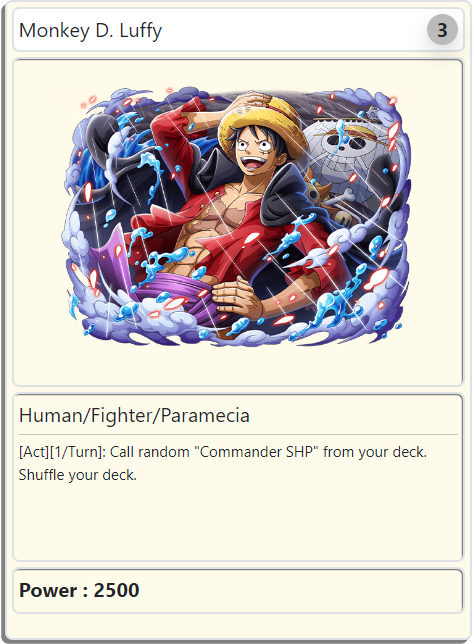
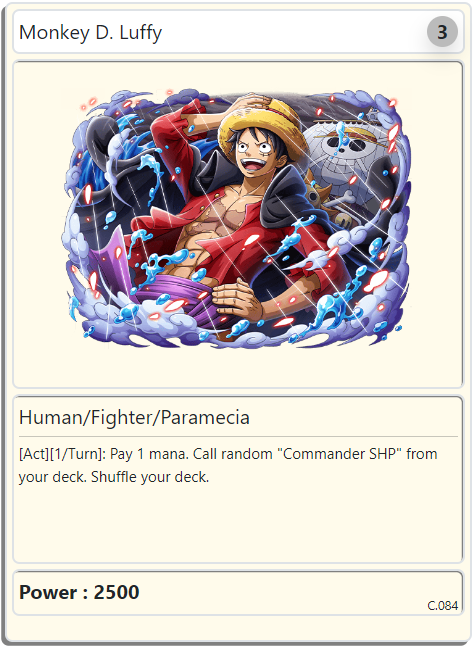
C084

Changed region(s): [[0.1184, 0.1242, 0.8879, 0.559], [0.0, 0.0, 1.0, 1.0], [0.1184, 0.9006, 0.296, 0.9317]]

diff --git a/src/views/arena/new-arena/index.vue b/src/views/arena/new-arena/index.vue
@@ -716,7 +716,10 @@ export default {
         data.unit.card.code === '071' ||
         data.unit.card.code === '072' ||
         data.unit.card.code === '073' ||
-        data.unit.card.code === '080'
+        data.unit.card.code === '080' ||
+        data.unit.card.code === '081' ||
+        data.unit.card.code === '083' ||
+        data.unit.card.code === '084'
       ) {
         data.option.act = 'ACT'
       }
@@ -1551,6 +1554,30 @@ export default {
         }
       }
     },
+    SEARCH_DECK_FOR_TEXT_AND_GRADE (data) {
+      if (data.who === 'player') {
+        data.deck = this.data.player.deck
+      } else {
+        data.deck = this.data.opponent.deck
+      }
+      const cards = []
+      for (let i = 0; i < data.deck.length; i++) {
+        if (data.deck[i].text.search(data.text) >= 0 && data.deck[i].grade <= data.grade) {
+          cards.push(i)
+        }
+      }
+      if (cards.length > 0) {
+        const index = Math.floor(Math.random() * cards.length)
+        if (data.todo === 'CALL FROM DECK') {
+          data.card = data.deck[cards[index]]
+          data.index = cards[index]
+          this.callFromDeck(data)
+        }
+        if (data.todo === 'DECK TO HAND') {
+          this.DECK_TO_HAND({ who: data.who, index: cards[index] })
+        }
+      }
+    },
     SEARCH_DECK_FOR_RACE_AND_GRADE_LESS (data) {
       if (data.who === 'player') {
         data.deck = this.data.player.deck
@@ -1708,6 +1735,33 @@ export default {
         this.shuffle({ who: 'opponent', deck: this.data.opponent.deck })
       }
     },
+    SELECT_ALL_YOUR_FIELD_BY_GRADE (data) {
+      if (data.who === 'player') {
+        data.field = this.data.player.field
+      } else {
+        data.field = this.data.opponent.field
+      }
+      data.front = data.field.front
+      data.back = data.field.back
+      data.unitF1 = data.front.unitF1
+      data.unitF2 = data.front.unitF2
+      data.unitF3 = data.front.unitF3
+      data.unitB1 = data.back.unitB1
+      data.unitB2 = data.back.unitB2
+      data.unitB3 = data.back.unitB3
+      data.locations = []
+      if (data.unitF1.isUnit && data.unitF1.card.grade === data.grade) { data.locations.push({ location: 'unit F1' }) }
+      if (data.unitF2.isUnit && data.unitF2.card.grade === data.grade) { data.locations.push({ location: 'unit F2' }) }
+      if (data.unitF3.isUnit && data.unitF3.card.grade === data.grade) { data.locations.push({ location: 'unit F3' }) }
+      if (data.unitB1.isUnit && data.unitB1.card.grade === data.grade) { data.locations.push({ location: 'unit B1' }) }
+      if (data.unitB2.isUnit && data.unitB2.card.grade === data.grade) { data.locations.push({ location: 'unit B2' }) }
+      if (data.unitB3.isUnit && data.unitB3.card.grade === data.grade) { data.locations.push({ location: 'unit B3' }) }
+      if (data.todo === 'GAIN AUTO POWER') {
+        data.locations.map((unit) => {
+          this.AUTO_POWER({ who: data.who, location: unit.location, gain: data.gain })
+        })
+      }
+    },
     SELECT_ALL_YOUR_FIELD_BY_RACE (data) {
       if (data.who === 'player') {
         data.field = this.data.player.field
@@ -1831,6 +1885,39 @@ export default {
           this.data.opponent.todo = data.todo
         } else {
           this.data.player.todo = data.todo
+        }
+      }
+    },
+    RANDOM_FIELD_OP_WITH_STAND_UNIT (data) {
+      if (data.who === 'player') {
+        data.target = 'opponent'
+        data.field = this.data.opponent.field
+      } else {
+        data.target = 'player'
+        data.field = this.data.player.field
+      }
+      data.front = data.field.front
+      data.back = data.field.back
+      data.unitF1 = data.front.unitF1
+      data.unitF2 = data.front.unitF2
+      data.unitF3 = data.front.unitF3
+      data.unitB1 = data.back.unitB1
+      data.unitB2 = data.back.unitB2
+      data.unitB3 = data.back.unitB3
+      const units = []
+      if (data.unitF1.isUnit && data.unitF1.position === 'Stand') { units.push({ location: 'unit F1' }) }
+      if (data.unitF2.isUnit && data.unitF2.position === 'Stand') { units.push({ location: 'unit F2' }) }
+      if (data.unitF3.isUnit && data.unitF3.position === 'Stand') { units.push({ location: 'unit F3' }) }
+      if (data.unitB1.isUnit && data.unitB1.position === 'Stand') { units.push({ location: 'unit B1' }) }
+      if (data.unitB2.isUnit && data.unitB2.position === 'Stand') { units.push({ location: 'unit B2' }) }
+      if (data.unitB3.isUnit && data.unitB3.position === 'Stand') { units.push({ location: 'unit B3' }) }
+      if (units.length > 0) {
+        const index = Math.floor(Math.random() * units.length)
+        if (data.todo === 'destroy') {
+          this.destroy({ who: data.target, location: units[index].location })
+        }
+        if (data.todo === 'rest') {
+          this.rest({ who: data.target, location: units[index].location })
         }
       }
     },
@@ -2016,6 +2103,8 @@ export default {
         this.EFF070(data)
       } else if (data.unitATK.card.code === '079') {
         this.EFF079(data)
+      } else if (data.unitATK.card.code === '082') {
+        this.EFF082(data)
       } else {
         setTimeout(() => this.unitBlock(data), 1000)
       }
@@ -2327,6 +2416,9 @@ export default {
         if (data.unit.card.code === '072') { this.EFF072_ACT(data) }
         if (data.unit.card.code === '073') { this.EFF073_ACT(data) }
         if (data.unit.card.code === '080') { this.EFF080(data) }
+        if (data.unit.card.code === '081') { this.EFF081(data) }
+        if (data.unit.card.code === '083') { this.EFF083(data) }
+        if (data.unit.card.code === '084') { this.EFF084(data) }
         data.unit.onePerTurn = true
       }
     },
@@ -4473,6 +4565,70 @@ export default {
         this.SEARCH_DECK_FOR_NAME(data)
       } else {
         this.Toast('error', 'Tidak ada kartu untuk discard !!!')
+      }
+    },
+    EFF081 (data) { // Don Sai
+      data.cost = 'pay life'
+      data.pay = 500
+      this.COST(data)
+      data.grade = 2
+      data.gain = 1000
+      data.todo = 'GAIN AUTO POWER'
+      this.SELECT_ALL_YOUR_FIELD_BY_GRADE(data)
+    },
+    EFF082 (data) { // Ideo
+      data.grade = 2
+      data.gain = 500
+      data.todo = 'GAIN AUTO POWER'
+      this.SELECT_ALL_YOUR_FIELD_BY_GRADE(data)
+      setTimeout(() => this.unitBlock(data), 1000)
+    },
+    EFF083 (data) { // Leo
+      data.cost = 'pay life'
+      data.pay = 500
+      this.COST(data)
+      data.todo = 'rest'
+      this.RANDOM_FIELD_OP_WITH_STAND_UNIT(data)
+    },
+    EFF084 (data) { // Monkey D. Luffy
+      if (data.who === 'player') {
+        data.mana = this.data.player.mana.use
+      } else {
+        data.mana = this.data.opponent.mana.use
+      }
+      if (data.mana > 0) {
+        if (data.who === 'player') {
+          this.data.player.mana.use -= 1
+          data.field = this.data.player.field
+        } else {
+          this.data.opponent.mana.use -= 1
+          data.field = this.data.opponent.field
+        }
+        data.openLocation = []
+        data.front = data.field.front
+        data.back = data.field.back
+        data.unitF1 = data.front.unitF1
+        data.unitF2 = data.front.unitF2
+        data.unitF3 = data.front.unitF3
+        data.unitB1 = data.back.unitB1
+        data.unitB2 = data.back.unitB2
+        data.unitB3 = data.back.unitB3
+        if (!data.unitF1.isUnit) { data.openLocation.push('unit F1') }
+        if (!data.unitF2.isUnit) { data.openLocation.push('unit F2') }
+        if (!data.unitF3.isUnit) { data.openLocation.push('unit F3') }
+        if (!data.unitB1.isUnit) { data.openLocation.push('unit B1') }
+        if (!data.unitB2.isUnit) { data.openLocation.push('unit B2') }
+        if (!data.unitB3.isUnit) { data.openLocation.push('unit B3') }
+        if (data.openLocation.length > 0) {
+          const index = Math.floor(Math.random() * data.openLocation.length)
+          data.text = 'Commander SHP'
+          data.grade = 2
+          data.location = data.openLocation[index]
+          data.todo = 'CALL FROM DECK'
+          this.SEARCH_DECK_FOR_TEXT_AND_GRADE(data)
+        }
+      } else {
+        this.Toast('error', 'Mana tidak cukup !!!')
       }
     }
   },

diff --git a/src/views/index.vue b/src/views/index.vue
@@ -3262,7 +3262,8 @@ export default {
                 job: 'Swordman',
                 special: ''
               },
-              text: '[Cont]: This unit get Power + 500 for each "Kozuki" unit your control.',
+              text: '[Cont]: if you control "Kozuki" unit. This unit get Power + 1000.',
+              // text: '[Cont]: This unit get Power + 500 for each "Kozuki" unit your control.',
               power: 500,
               code: '085'
             },
@@ -3276,7 +3277,7 @@ export default {
                 job: 'Fighter',
                 special: 'Paramecia'
               },
-              text: '[Act][1/Turn]: Call random "Commander SHP" from your deck. Shuffle your deck.',
+              text: '[Act][1/Turn]: Pay 1 mana. Call random "Commander SHP" from your deck. Shuffle your deck.',
               power: 2500,
               code: '084'
             },
@@ -3319,7 +3320,6 @@ export default {
                 special: ''
               },
               text: '[Cont]: Commander SHP. [Act][1/Turn]: Pay 500 life points. All your grade 2 unit get Power + 1000 until end this turn.',
-              // text: '[Cont]: Commander SHP. [Act][1/Turn]: Pay 500 life points. All your grade 2 unit get Power + 1000 until end this turn.',
               power: 1500,
               code: '081'
             },
